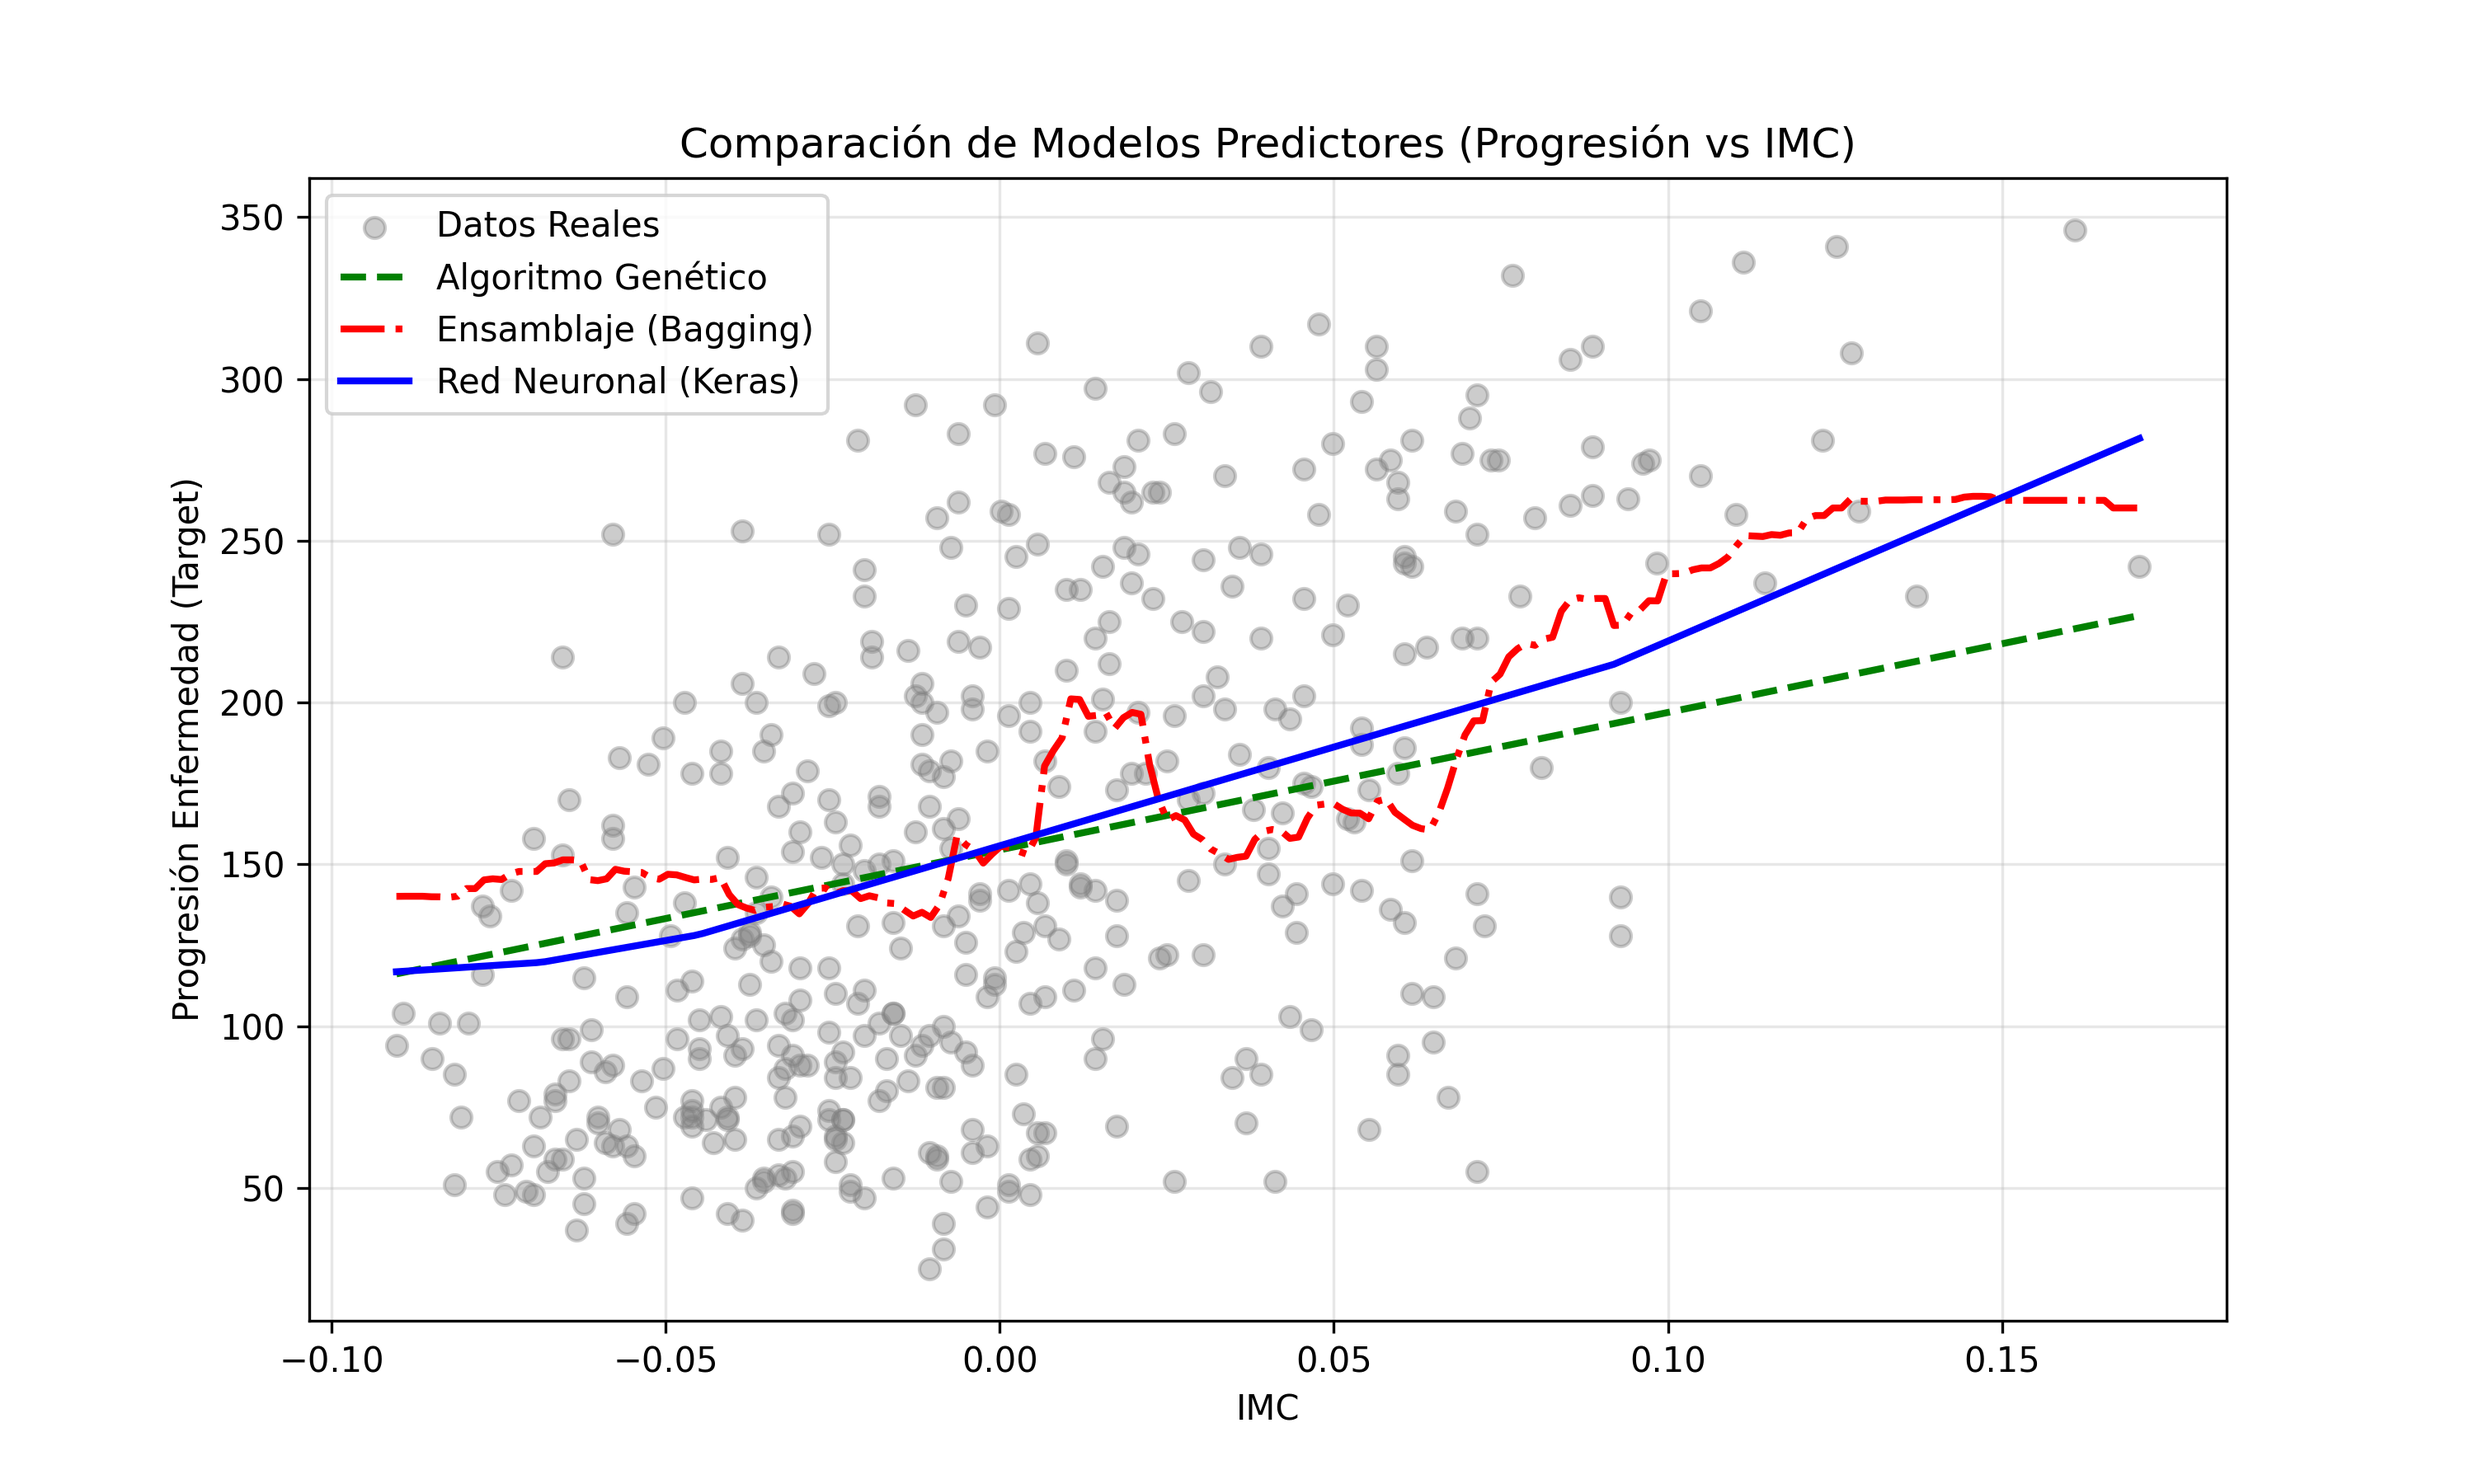
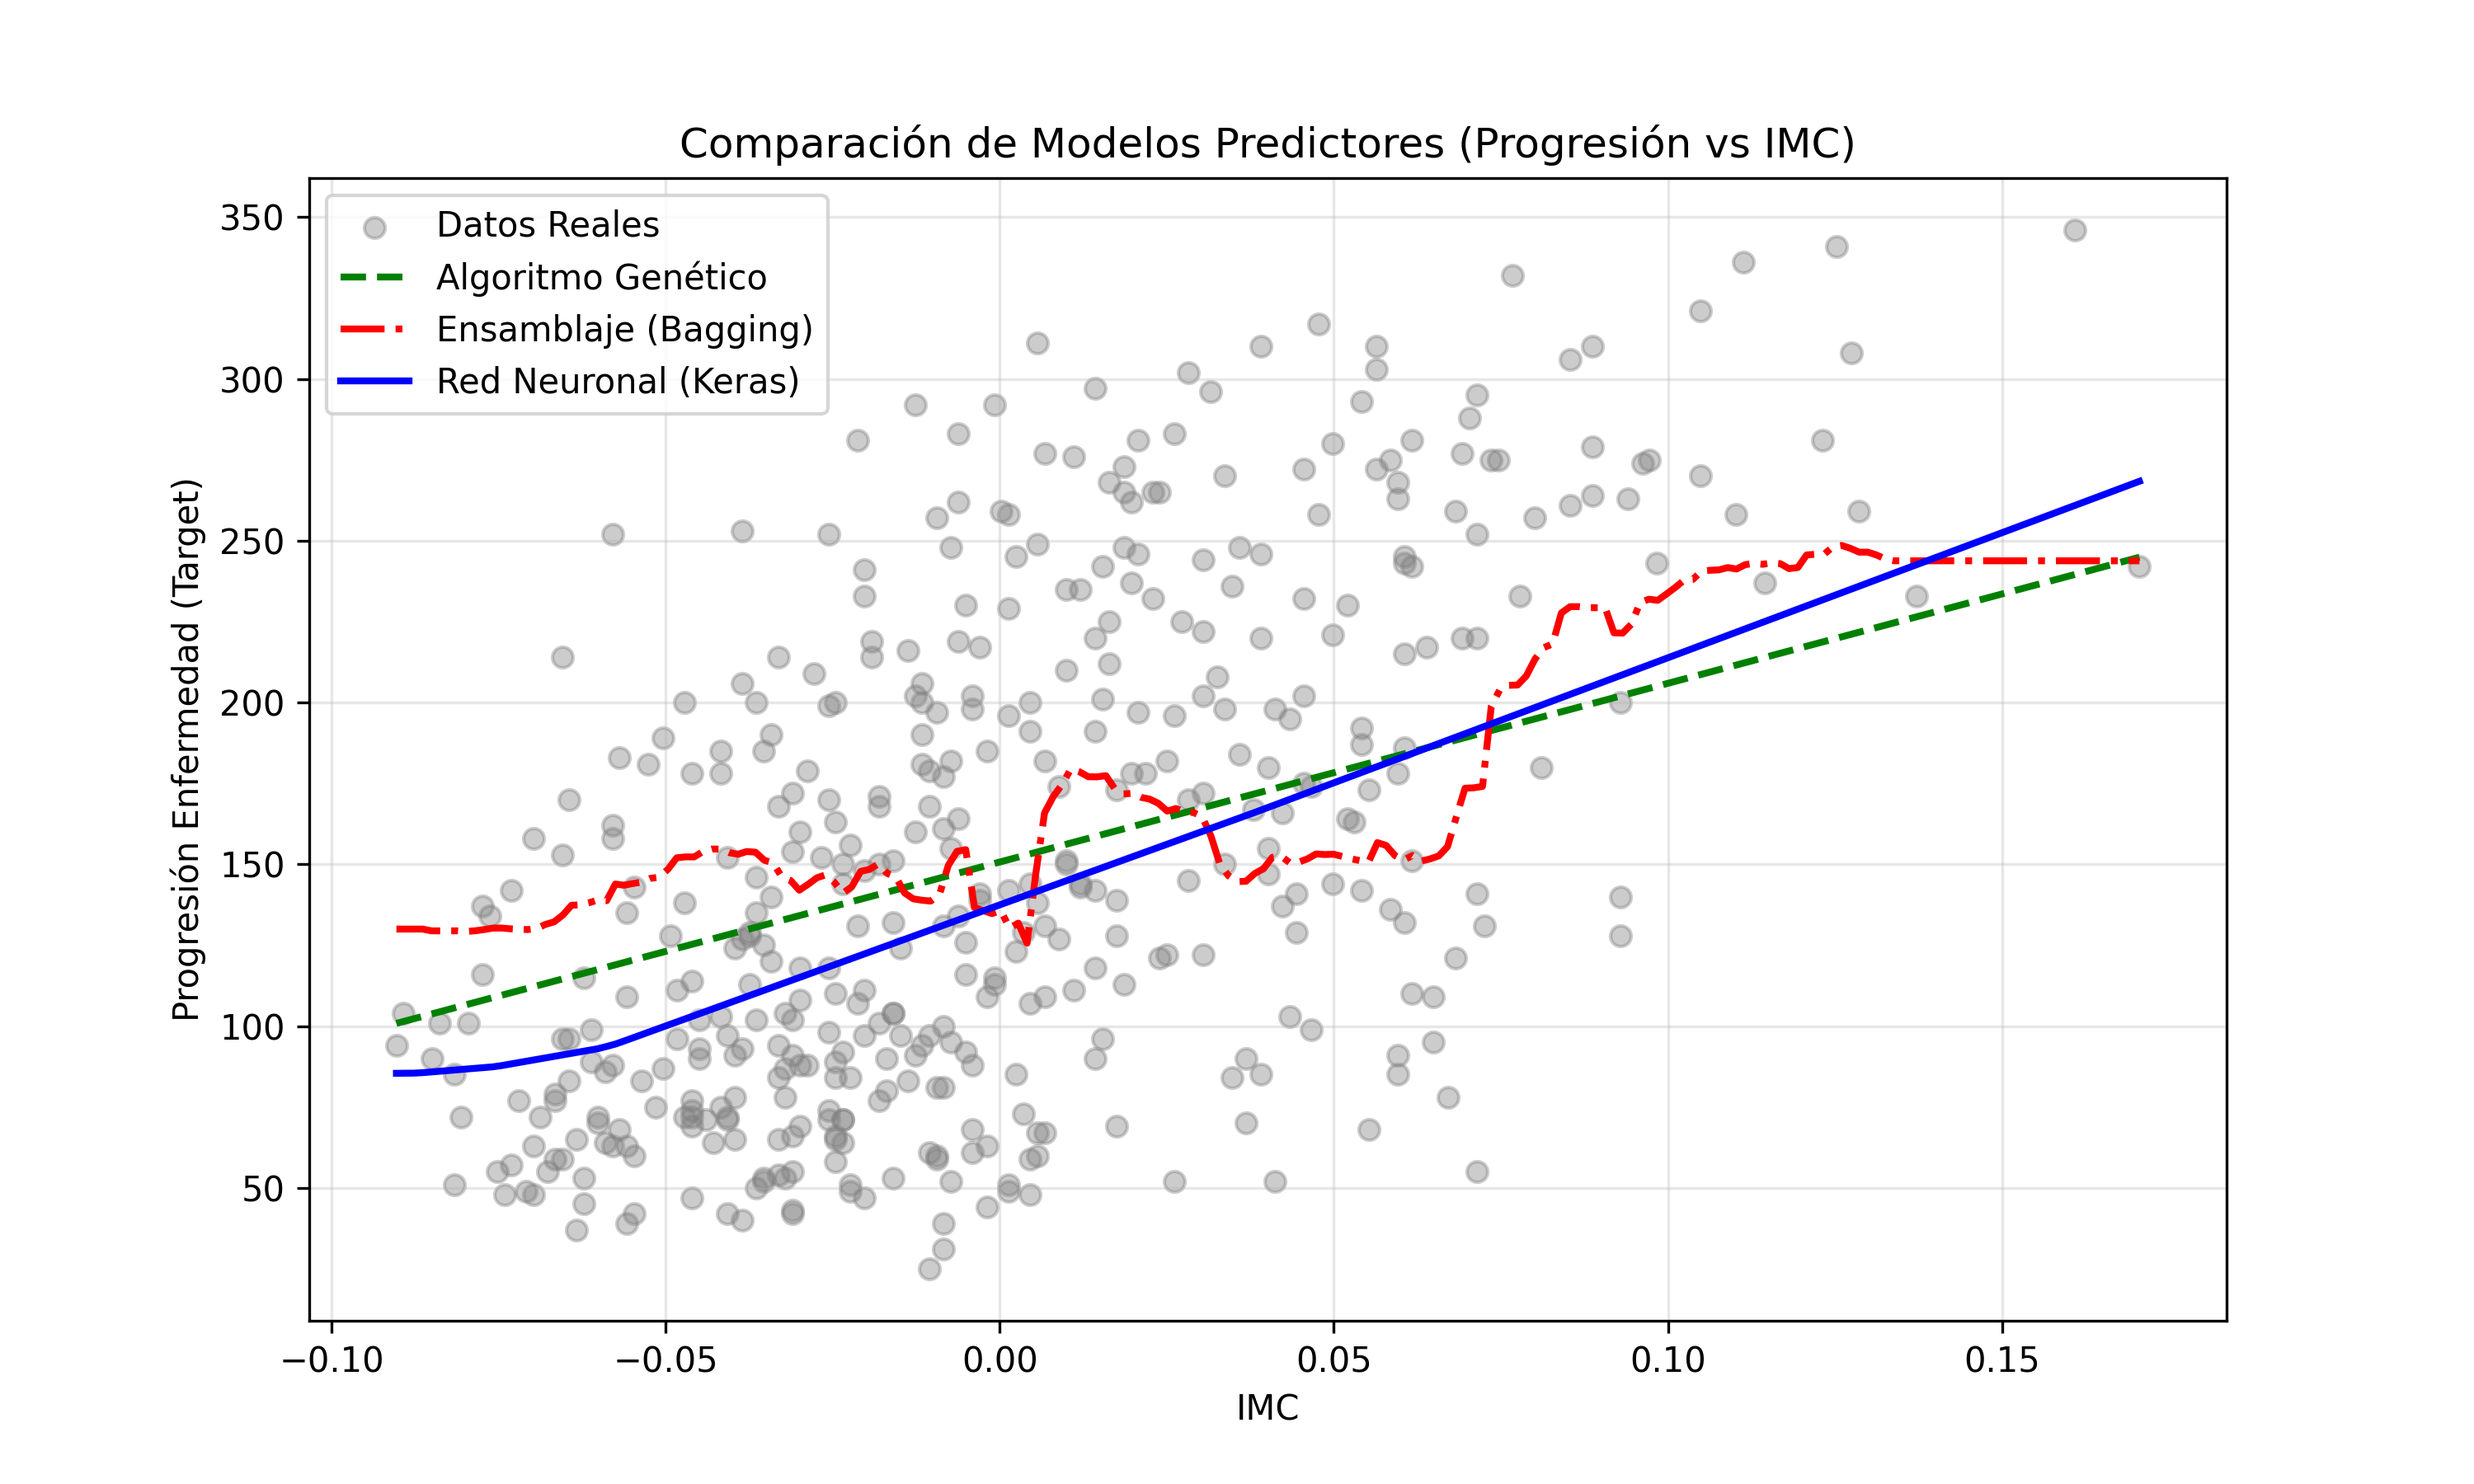
improvements

Changed region(s): [[0.155, 0.28, 0.868, 0.7156], [0.155, 0.7156, 0.217, 0.7467]]

diff --git a/main.py b/main.py
@@ -32,24 +32,25 @@ def execute_models() -> dict[str, Any]:
     try:
         logger.info("Cargando dataset y aplicando preprocesamiento...")
         dataset = get_diabetes_data(cedula_terminacion=72)
-        
-        X_full = dataset.df[['IMC', 'Presion', 'Trigliceridos_log']].values
-        y_full = dataset.df['target'].values
-        
+
+        X_train, X_test = dataset.X_train, dataset.X_test
+        y_train, y_test = dataset.y_train, dataset.y_test
+
         scaler = StandardScaler()
-        X_scaled = scaler.fit_transform(X_full) 
-        
+        X_train_scaled = scaler.fit_transform(X_train)
+        X_test_scaled  = scaler.transform(X_test)
+
         X_mean = scaler.mean_
-        X_std = scaler.scale_
+        X_std  = scaler.scale_
 
         logger.info("Ejecutando algoritmo genético optimizado (K-Fold 5)...")
-        ga_metrics, ga_params, fitness_history = run_genetic_algorithm(X_full, y_full, k_folds=5)
+        ga_metrics, ga_params, fitness_history = run_genetic_algorithm(X_train, y_train, k_folds=5)
 
         logger.info("Ejecutando ensamble bagging regressor (K-Fold 5)...")
-        bagging_metrics, bagging_model = run_bagging_ensemble(X_full, y_full, k_folds=5)
+        bagging_metrics, bagging_model = run_bagging_ensemble(X_train, y_train, k_folds=5)
 
         logger.info("Ejecutando arquitecturas de Red Neuronal (K-Fold 5)...")
-        nn_results, nn_models = run_neural_networks_benchmarking(X_scaled, y_full, k_folds=5)
+        nn_results, nn_models = run_neural_networks_benchmarking(X_train_scaled, y_train, k_folds=5)
 
         logger.info("Generando visualizaciones en carpeta local 'plots/'...")
 

diff --git a/src/utils/data.py b/src/utils/data.py
@@ -12,8 +12,6 @@ class DiabetesDataset:
     X_test: np.ndarray
     y_train: np.ndarray
     y_test: np.ndarray
-    X_train_std: np.ndarray
-    X_test_std: np.ndarray
 
 def get_diabetes_data(cedula_terminacion: int = 72) -> DiabetesDataset:
     """
@@ -55,17 +53,10 @@ def get_diabetes_data(cedula_terminacion: int = 72) -> DiabetesDataset:
         X_filtered, y_filtered, test_size=test_size, random_state=42
     )
 
-    X_mean = X_train.mean(axis=0, keepdims=True)
-    X_std  = X_train.std(axis=0, keepdims=True) + 1e-8
-    X_train_std = (X_train - X_mean) / X_std
-    X_test_std  = (X_test  - X_mean) / X_std
-
     return DiabetesDataset(
         df=df,
         X_train=X_train,
         X_test=X_test,
         y_train=y_train,
         y_test=y_test,
-        X_train_std=X_train_std,
-        X_test_std=X_test_std
     )

diff --git a/src/models/neural_net.py b/src/models/neural_net.py
@@ -72,7 +72,6 @@ def run_neural_networks_benchmarking(X: np.ndarray, y: np.ndarray, k_folds: int 
     
     kf = KFold(n_splits=k_folds, shuffle=True, random_state=42)
     
-    # Store all architectures results
     results: Dict[str, Dict[str, float]] = {
         "arquitectura_A": {"mse": [], "rmse": [], "mae": [], "r2": []},
         "arquitectura_B": {"mse": [], "rmse": [], "mae": [], "r2": []},
